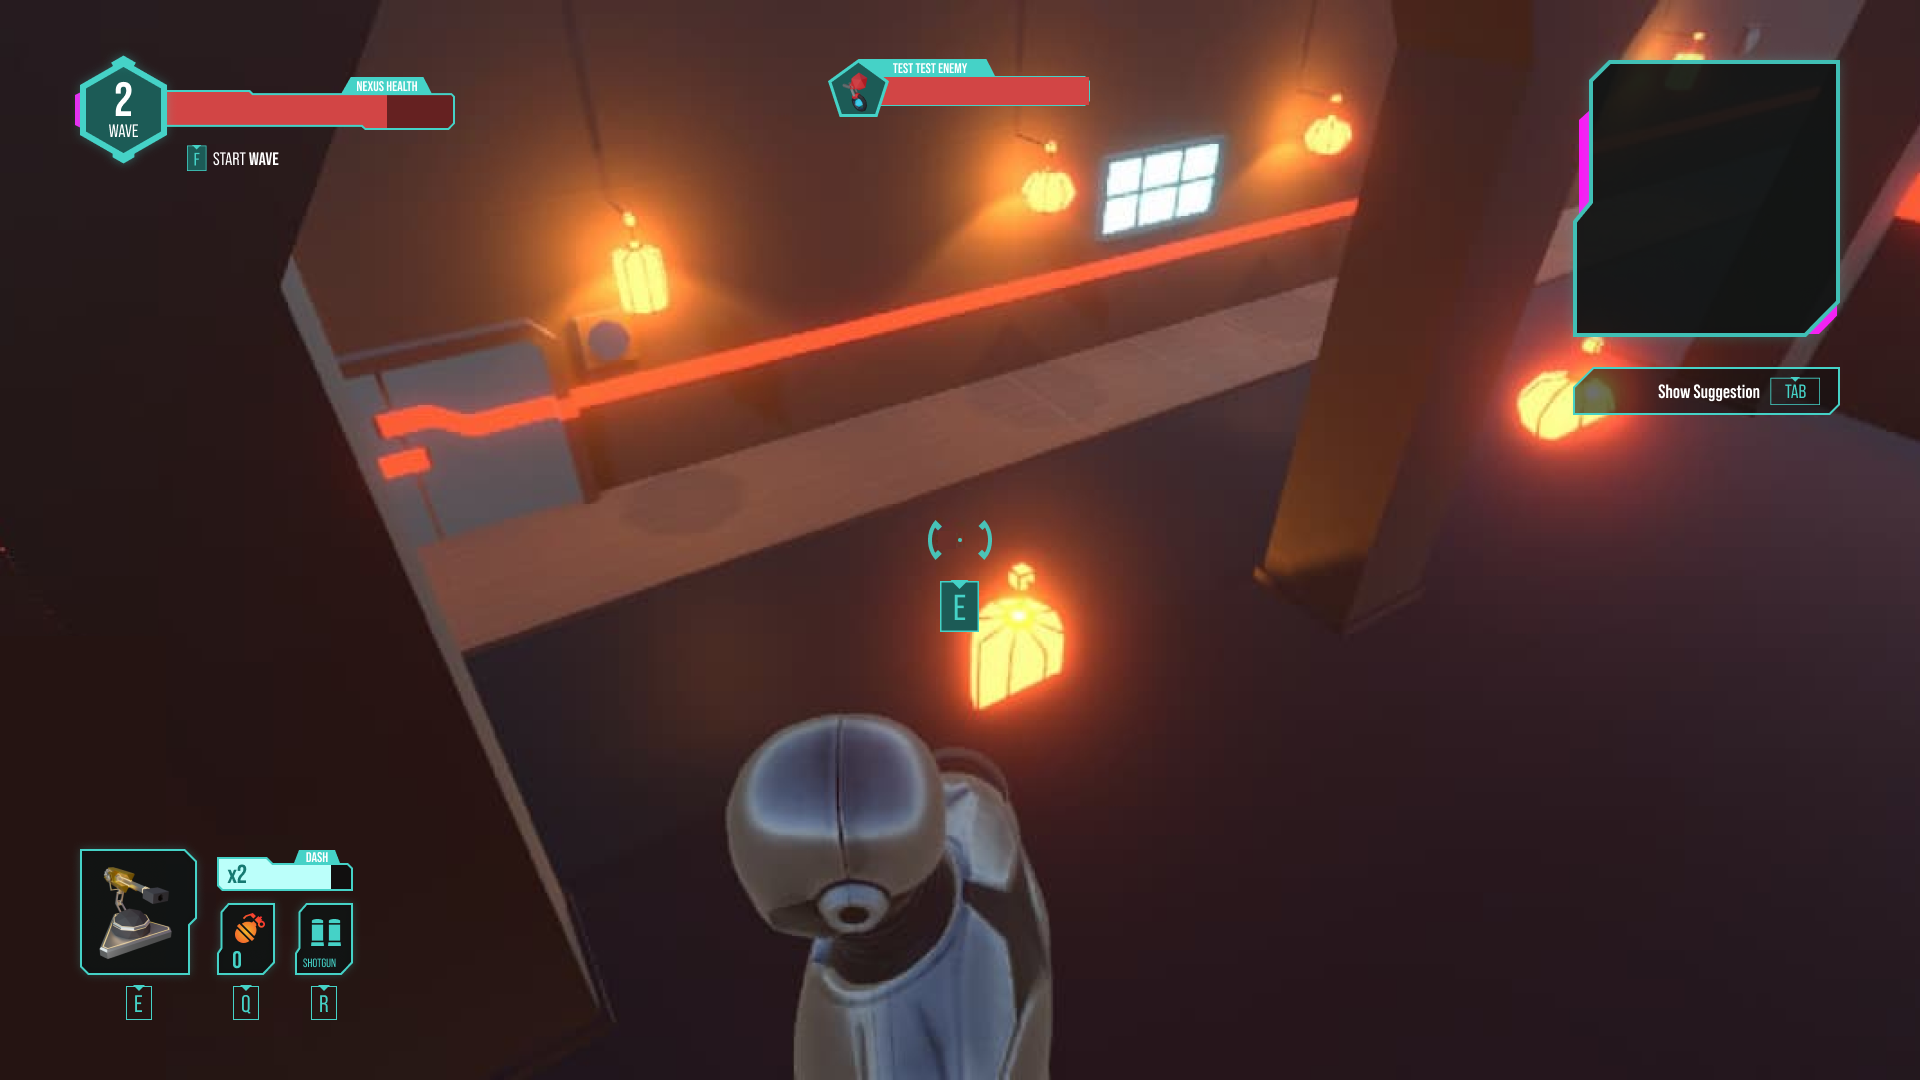
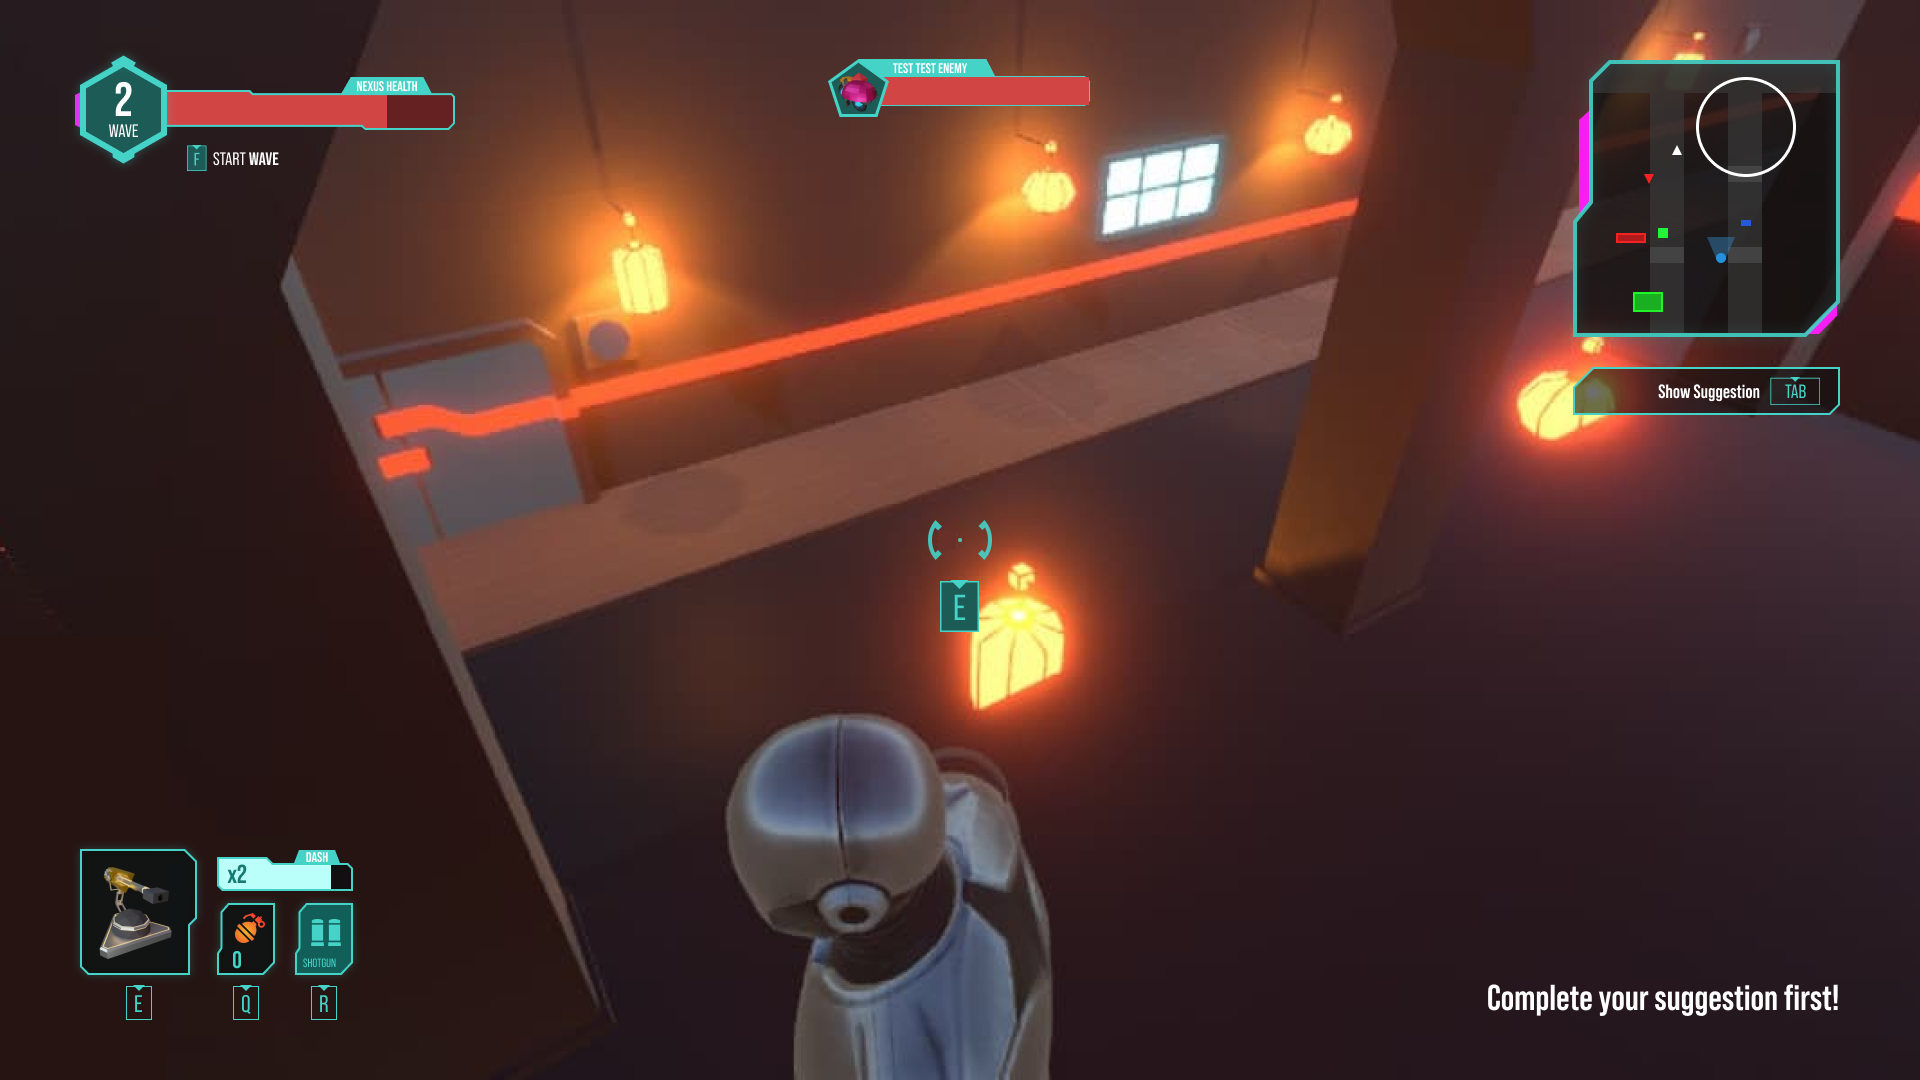
add: notification system + complete suggestions first notification

diff --git a/Assets/Scenes/Levels/UI/Scripts/NotificationUI.cs b/Assets/Scenes/Levels/UI/Scripts/NotificationUI.cs
@@ -1,0 +1,49 @@
+using System.Collections;
+using System.Collections.Generic;
+using UnityEngine;
+
+public class NotificationUI : MonoBehaviour
+{
+    [SerializeField]
+    private TMPro.TextMeshProUGUI notification;
+    [SerializeField]
+    private float fadeDuration;
+    [SerializeField]
+    private float standDuration;
+
+    private bool isShowingNotification = false;
+
+    public void SetNotification(string text)
+    {
+        notification.SetText(text);
+
+        if (!isShowingNotification)
+        {
+            StartCoroutine(ShowNotification());
+        }
+        isShowingNotification = true;
+    }
+
+    IEnumerator ShowNotification()
+    {
+        yield return StartCoroutine(FadeNotification(notification, 0f, 1f, fadeDuration));
+        yield return new WaitForSeconds(standDuration);
+        yield return StartCoroutine(FadeNotification(notification, 1f, 0f, fadeDuration));
+
+        isShowingNotification = false;
+    }
+
+    IEnumerator FadeNotification(TMPro.TextMeshProUGUI text, float origin, float target, float duration)
+    {
+        float journey = 0f;
+        while (journey <= duration)
+        {
+            journey = journey + Time.deltaTime;
+            float percent = Mathf.Clamp01(journey / duration);
+
+            text.alpha = Mathf.Lerp(origin, target, percent);
+
+            yield return null;
+        }
+    }
+}

diff --git a/Assets/Scenes/Levels/UI/Scripts/GameUI.cs b/Assets/Scenes/Levels/UI/Scripts/GameUI.cs
@@ -28,6 +28,8 @@ public class GameUI : MonoBehaviour
     private SuggestionsUI suggestionsUI;
     [SerializeField]
     private GameObject startWaveUI;
+    [SerializeField]
+    private NotificationUI notificationUI;
 
     public void UpdateNexusHealth(float currentHealth, float maxHealth)
     {
@@ -167,5 +169,10 @@ public class GameUI : MonoBehaviour
     public void HideStartWave()
     {
         startWaveUI.SetActive(false);
+    }
+
+    public void UpdateNotification(string text)
+    {
+        notificationUI.SetNotification(text);
     }
 }

diff --git a/Assets/Scripts/GameManager.cs b/Assets/Scripts/GameManager.cs
@@ -140,7 +140,9 @@ public class GameManager : MonoBehaviour
                 gameUI.UpdateHordeNumber(nextBigHorde);
                 gameUI.HideStartWave();
             }
-            else { /* gameUI.ShowPleaseCompleteTheMissionFirst */ Debug.Log("Please, complete the mission"); }
+            else { 
+                gameUI.UpdateNotification("Please, comeplete your suggestion first!");
+            }
         }
     }
 
